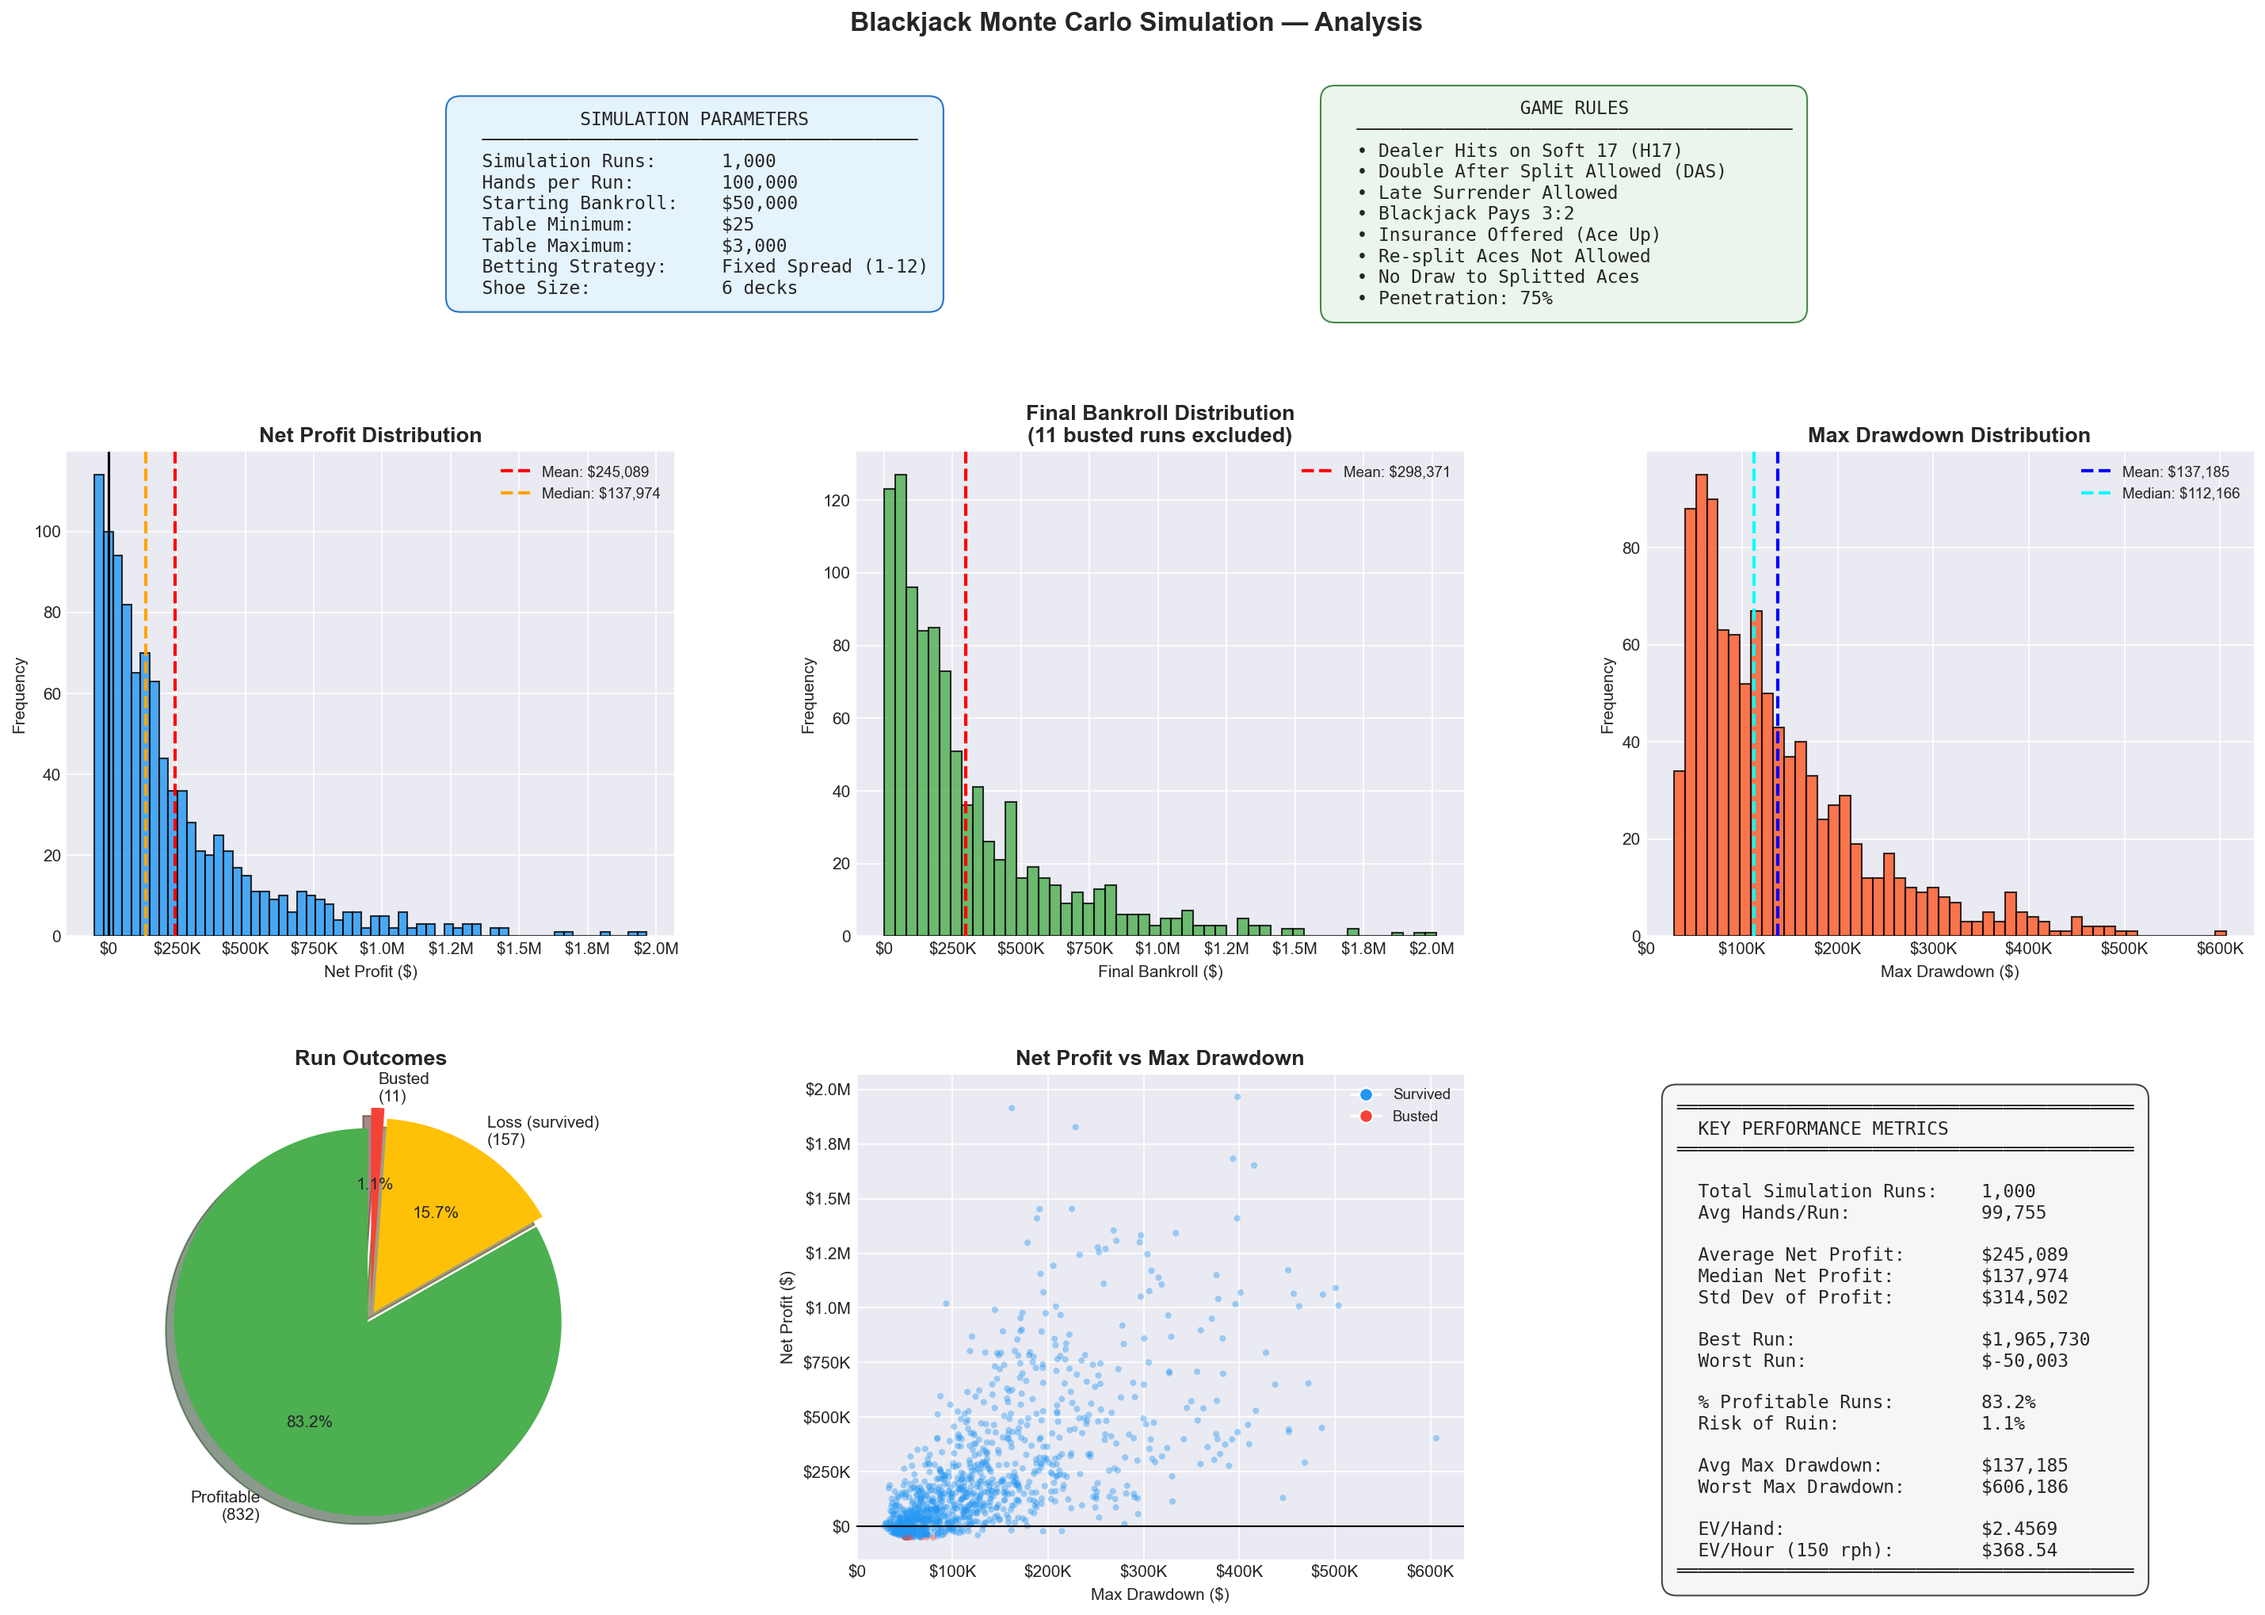
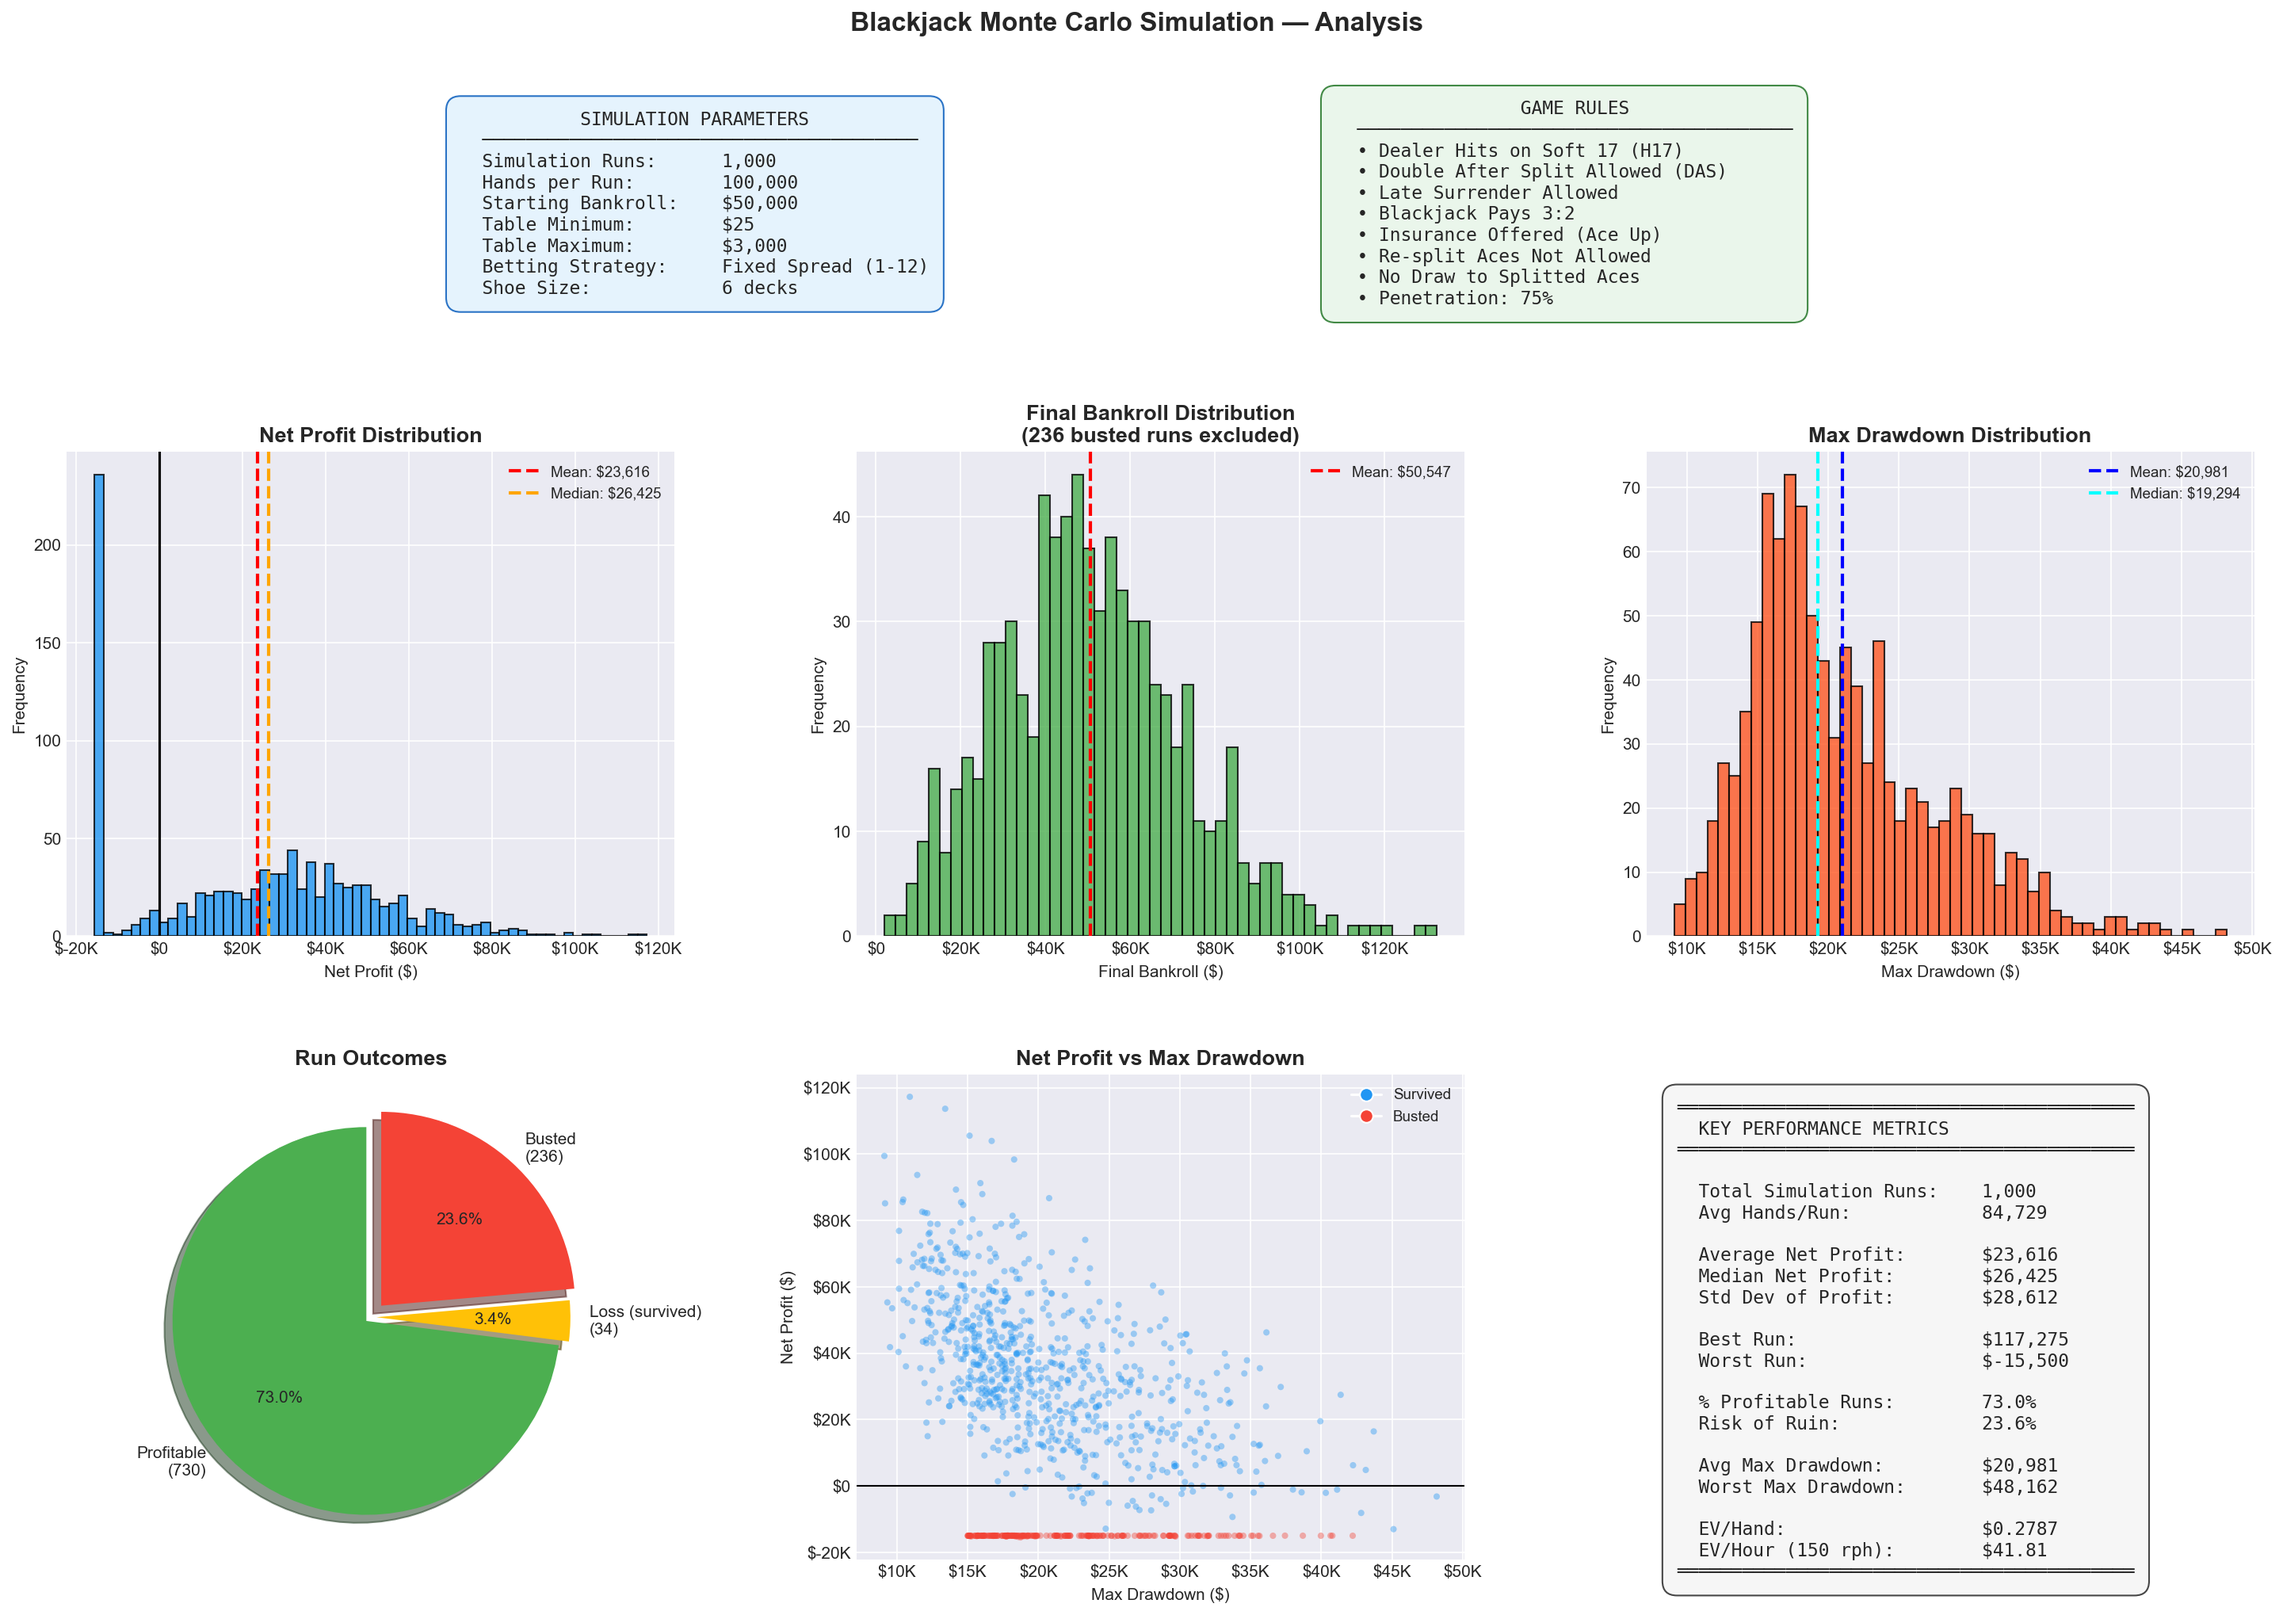
visualize results for half-kelly vs fixed

diff --git a/src/com/quantshoe/Main.java b/src/com/quantshoe/Main.java
@@ -20,12 +20,12 @@ public final class Main {
         int handsPerRun = 100_000;         // Hands per run
         int totalDecks = 6;                // Decks in the shoe
 
-        double startingBankroll = 50000; // Starting bankroll
+        double startingBankroll = 15000; // Starting bankroll
         double tableMin = 25;             // Table minimum bet
         double tableMax = 5000;           // Table maximum bet (1-12 spread: $15 x 12)
 
         // Betting mode: "kelly" for Half-Kelly sizing, "fixed" for fixed spread
-        String bettingMode = "kelly";
+        String bettingMode = "fixed";
 
         String outputFilePath = "quant_blackjack_results.csv";
 
